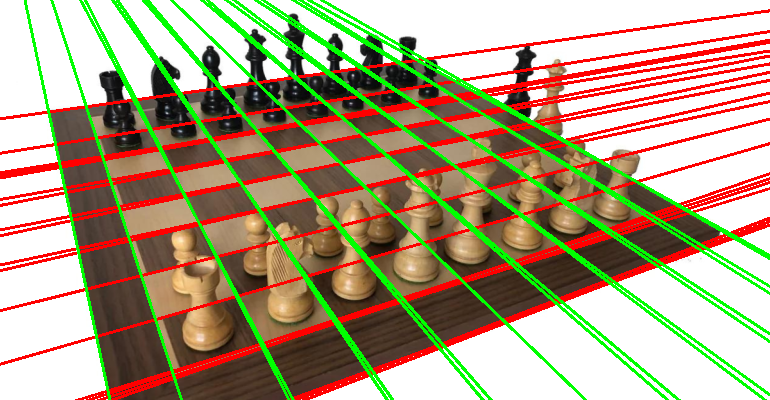
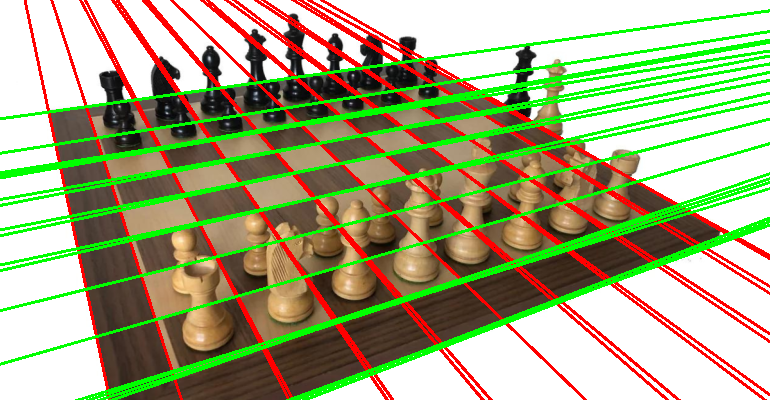
add verbose as attr

diff --git a/martin/elucidation_chessboard_detection.py b/martin/elucidation_chessboard_detection.py
@@ -6,6 +6,8 @@ from collections import defaultdict
 from functools import partial
 from sklearn.utils import shuffle
 import cv2
+from sklearn import cluster as skcluster
+import os, glob
 
 SQUARE_SIDE_LENGTH = 227
 
@@ -108,22 +110,26 @@ def four_point_transform(img, points, square_length=SQUARE_SIDE_LENGTH):
     return cv2.warpPerspective(img, M, (board_length, board_length))
 
 
-def find_board(fname, output_name):
+def find_board(fname, output_name, verbose_show=False, verbose_output=False):
     """
     Given a filename, returns the board image.
     """
     start = time()
     img = cv2.imread(fname)
-    #cv2.imshow("img", img)
-    #cv2.waitKey(0)
+    if verbose_show:
+        cv2.imshow("img", img)
+        cv2.waitKey(0)
     assert img is not None
 
     gray = cv2.cvtColor(img, cv2.COLOR_BGR2GRAY)
-    #cv2.imshow("grey img", gray)
-    #cv2.waitKey(0)
+    if verbose_show:
+        cv2.imshow("grey img", gray)
+        cv2.waitKey(0)
+
     gray = cv2.blur(gray, (3, 3)) # TODO auto adjust the size of the blur
-    #cv2.imshow("blurred grey img", gray)
-    #cv2.waitKey(0)
+    if verbose_show:
+        cv2.imshow("blurred grey img", gray)
+        cv2.waitKey(0)
 
     # Canny edge detection
 
@@ -134,8 +140,9 @@ def find_board(fname, output_name):
 
     sigma=0.20
     edges = auto_canny(gray, sigma=sigma)    
-    #cv2.imshow(f"cannied {sigma}", edges)
-    #cv2.waitKey(0)
+    if verbose_show:
+        cv2.imshow(f"cannied {sigma}", edges)
+        cv2.waitKey(0)
     #assert np.count_nonzero(edges) / float(gray.shape[0] * gray.shape[1]) < 0.015
 
     # Hough line detection
@@ -148,8 +155,7 @@ def find_board(fname, output_name):
     #h, v = hor_vert_lines(lines)
 
     # metodo kmeans su linee
-    from sklearn import cluster
-    angleClustering = cluster.KMeans(n_clusters=2).fit(lines[:,1].reshape(-1,1))
+    angleClustering = skcluster.KMeans(n_clusters=2).fit(lines[:,1].reshape(-1,1))
     h = lines[angleClustering.labels_==0]
     v = lines[angleClustering.labels_==1]
     
@@ -157,8 +163,8 @@ def find_board(fname, output_name):
     #clusteringH = cluster.AgglomerativeClustering(distance_threshold=(lines[:,1].min(axis=1) + lines[:,1].max(axis=1))/9) \
     #    .fit(h[:,0].reshape(-1,1))
     
-    distanceClusteringH = cluster.KMeans(n_clusters=9).fit(h[:,0].reshape(-1,1))
-    distanceClusteringV = cluster.KMeans(n_clusters=9).fit(v[:,0].reshape(-1,1))
+    distanceClusteringH = skcluster.KMeans(n_clusters=9).fit(h[:,0].reshape(-1,1))
+    distanceClusteringV = skcluster.KMeans(n_clusters=9).fit(v[:,0].reshape(-1,1))
 
     hMeanDists = distanceClusteringH.cluster_centers_
     vMeanDists = distanceClusteringV.cluster_centers_
@@ -181,10 +187,12 @@ def find_board(fname, output_name):
             cv2.line(img,(x1,y1),(x2,y2),color,2)
     
     # create output of the hough lines found (not clustered) onto the img
-    if True:
+    if verbose_output:
         output_lines(img, h, (0,0,255))
         output_lines(img, v, (0,255,0))
-        cv2.imwrite(f'./martin/output/lines_{output_name}', img)
+        output = f'./martin/output/lines_{output_name}'
+        print(f"created: {output}")
+        cv2.imwrite(output, img)
     
     # calcolo intersezioni
     #points = intersections(h, v)
@@ -199,12 +207,13 @@ def find_board(fname, output_name):
     if False:
         for point in points:
             cv2.circle(img, tuple(point), 25, (0,0,255), -1)
-        cv2.imwrite('points.jpg', img)
+        cv2.imwrite(f'./martin/output/points_{output_name}', img)
     
     # Perspective transform
     #new_img = four_point_transform(img, points)
 
     #return new_img
+
 
 def split_board(img):
     """
@@ -218,9 +227,6 @@ def split_board(img):
     return arr
 
 
-
-import os, glob
-
 def main():
     input_imgs = glob.glob('./martin/input/*')
     print(input_imgs)
@@ -232,7 +238,7 @@ def main():
         print(f"file found: {input_img}")
         imgname = input_img.split('\\')[-1]
     
-        find_board(input_img, f"{'output_' + imgname}")
+        find_board(input_img, f"{'output_' + imgname}", verbose_output=True)
         #cv2.imwrite('crop.jpg', find_board('./martin/input/1.jpg', '1'))
 
 
